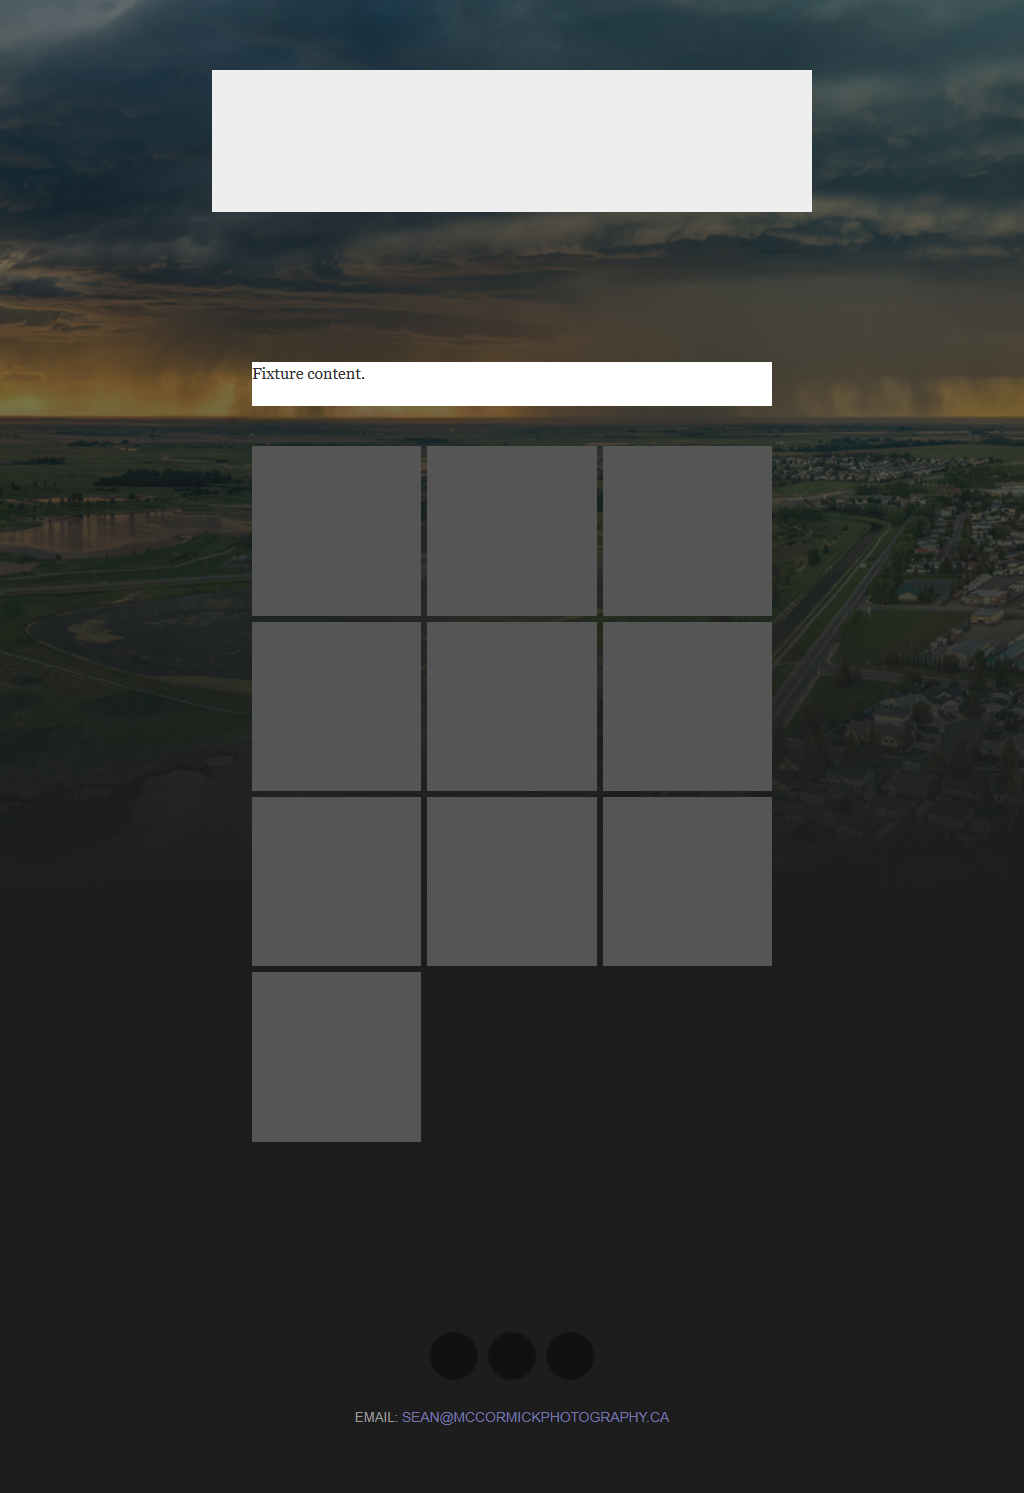
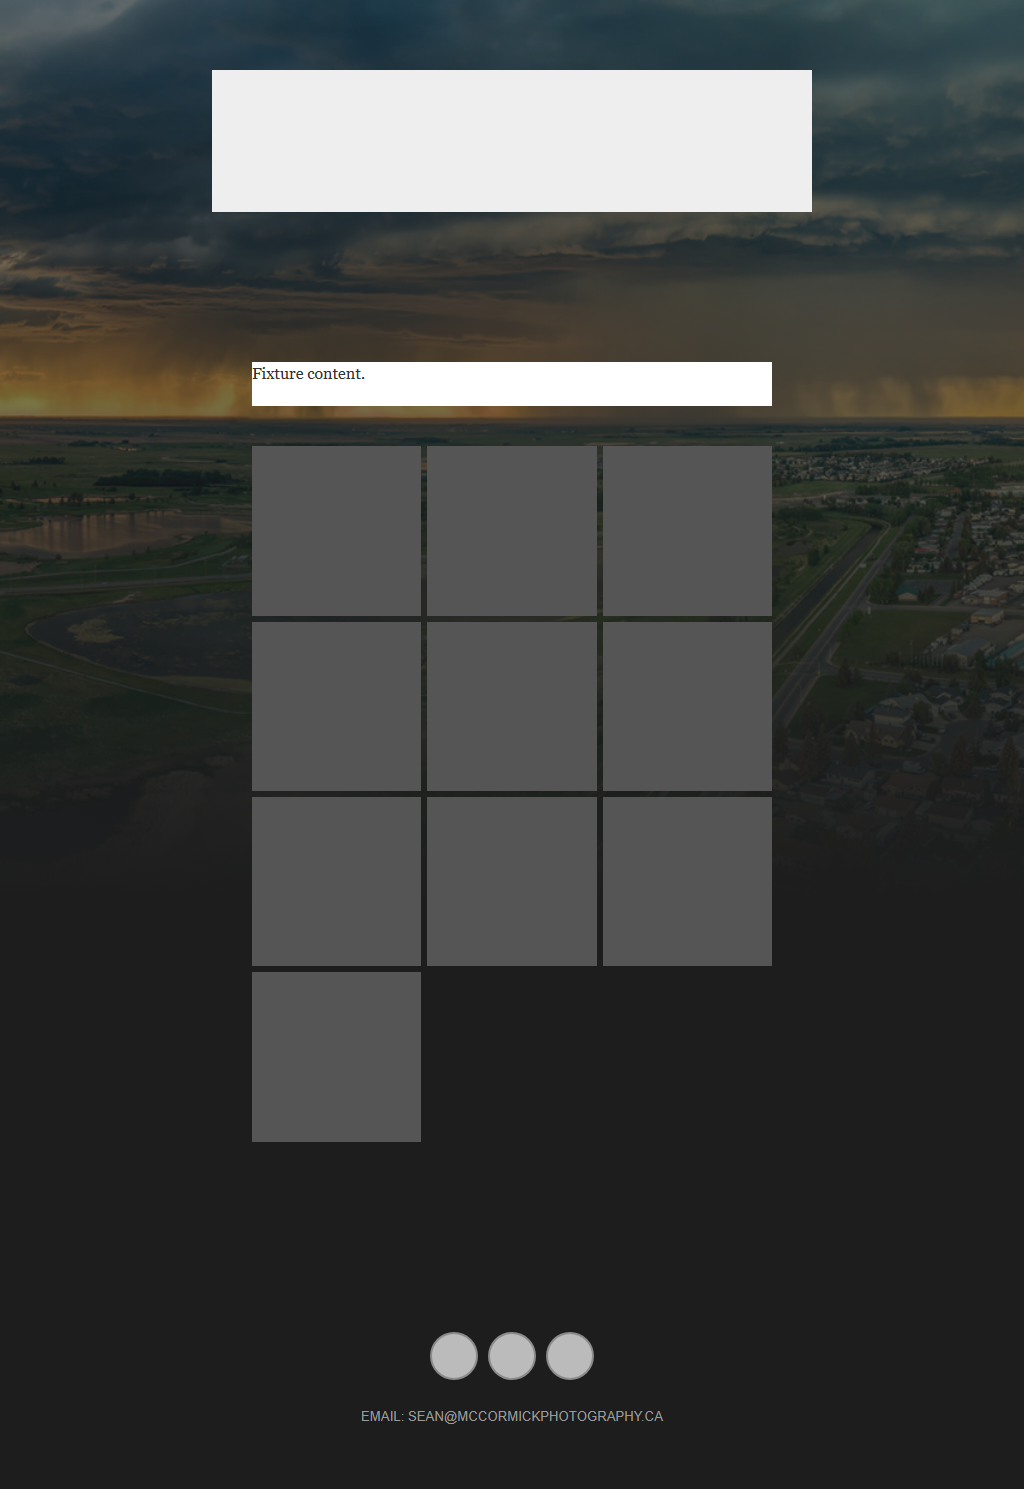
Honor ALFRED Social Dock appearance defaults
Default ALFRED to white circles with dark grey glyphs in both the 36px masthead row and footer while leaving appearance controls owner-editable. Saved owner settings override skin defaults. Browser checks verify the real prepared model, computed colours, target geometry and both placements at 1920, 1440 and 1024.

Changed region(s): [[0.3438, 0.8959, 0.6562, 0.9577], [0.25, 0.2471, 0.3438, 0.278]]

diff --git a/skins/alfred/style.css b/skins/alfred/style.css
@@ -828,6 +828,14 @@ input[type="button"],
     margin: 24px auto 0;
 }
 
+.site-header .dock-link,
+.site-header .dock-link:hover,
+#system-footer .dock-link,
+#system-footer .dock-link:hover {
+    color: var(--dock-icon);
+    text-decoration: none;
+}
+
 .site-header .dock-link {
     width: 36px;
     height: 36px;

diff --git a/core/social-dock.php b/core/social-dock.php
@@ -31,11 +31,11 @@ if (empty($settings['social_dock_enabled']) || $settings['social_dock_enabled'] 
 }
 
 // ── SKIN OVERRIDES ────────────────────────────────────────────────────────
-// A skin may take ownership of the dock's appearance / location / shadow via a
-// "social_dock" block in its manifest.json. Any key present there wins over the
-// admin setting, and smack-social-dock.php shows "(controlled by skin)" for it.
-// Recognised keys: position, color_mode, icon_style, shadow, color_light,
-// color_dark, opacity, inline.
+// A skin may own placement through its "social_dock" manifest block. It may
+// also declare default_* appearance values, but saved owner settings win and
+// remain editable in smack-social-dock.php.
+// Recognised placement key: position. Appearance defaults: default_color_mode,
+// default_icon_style, default_shadow, default_color_light, default_color_dark.
 if (!function_exists('snapsmack_dock_skin_overrides')) {
     function snapsmack_dock_skin_overrides(array $settings): array {
         $skin = basename((string)($settings['active_skin'] ?? ''));
@@ -176,7 +176,7 @@ $_dock_outline = [
     'email'      => '<svg viewBox="0 0 24 24" fill="none" stroke="currentColor" stroke-width="1.8" stroke-linecap="round" stroke-linejoin="round"><rect x="3" y="5" width="18" height="14" rx="2"/><path d="m4 7 8 6 8-6"/></svg>',
     'website'    => '<svg viewBox="0 0 24 24" fill="none" stroke="currentColor" stroke-width="1.8" stroke-linecap="round" stroke-linejoin="round"><circle cx="12" cy="12" r="8.5"/><path d="M3.5 12h17"/><path d="M12 3.5c2.4 2.5 3.7 5.6 3.7 8.5S14.4 18 12 20.5C9.6 18 8.3 14.9 8.3 12S9.6 6 12 3.5z"/></svg>',
 ];
-$_dock_icon_style = (($_dock_ovr['icon_style'] ?? ($settings['social_dock_icon_style'] ?? 'solid')) === 'outline') ? 'outline' : 'solid';
+$_dock_icon_style = (($settings['social_dock_icon_style'] ?? $_dock_ovr['default_icon_style'] ?? 'solid') === 'outline') ? 'outline' : 'solid';
 
 // Pixelfed glyphs (used for THIS site's own fediverse page on image installs;
 // Mastodon glyphs above cover the text install). Solid = filled "P" mark;
@@ -243,20 +243,21 @@ if (empty($_dock_links) && !$_dock_has_download) {
     return;
 }
 
-// Get and validate position (skin override wins)
+// Get and validate position (skin placement wins)
 $_dock_position = $_dock_ovr['position'] ?? ($settings['social_dock_position'] ?? 'bottom-right');
 $_valid_positions = ['top-left', 'top-right', 'bottom-left', 'bottom-right', 'left-top', 'left-bottom', 'right-top', 'right-bottom'];
 if (!in_array($_dock_position, $_valid_positions)) {
     $_dock_position = 'bottom-right';
 }
 
-// Appearance settings (skin overrides win over admin settings)
-$_dock_color_light = $_dock_ovr['color_light'] ?? ($settings['social_dock_color_light'] ?? '#ffffff');
-$_dock_color_dark  = $_dock_ovr['color_dark']  ?? ($settings['social_dock_color_dark'] ?? '#1a1a1a');
-$_dock_color_mode  = (($_dock_ovr['color_mode'] ?? ($settings['social_dock_color_mode'] ?? 'light')) === 'dark') ? 'dark' : 'light';
-$_dock_shadow      = isset($_dock_ovr['shadow'])
-    ? filter_var($_dock_ovr['shadow'], FILTER_VALIDATE_BOOLEAN)
-    : ((string)($settings['social_dock_shadow'] ?? '1') !== '0');
+// Owner appearance settings win; a skin may declare defaults without locking
+// the matching controls. Position remains a skin-owned placement decision.
+$_dock_color_light = $settings['social_dock_color_light'] ?? ($_dock_ovr['default_color_light'] ?? '#ffffff');
+$_dock_color_dark  = $settings['social_dock_color_dark']  ?? ($_dock_ovr['default_color_dark'] ?? '#1a1a1a');
+$_dock_color_mode  = (($settings['social_dock_color_mode'] ?? $_dock_ovr['default_color_mode'] ?? 'light') === 'dark') ? 'dark' : 'light';
+$_dock_shadow      = array_key_exists('social_dock_shadow', $settings)
+    ? ((string)$settings['social_dock_shadow'] !== '0')
+    : filter_var($_dock_ovr['default_shadow'] ?? true, FILTER_VALIDATE_BOOLEAN);
 $_dock_opacity     = max(0, min(100, (int)($_dock_ovr['opacity'] ?? ($settings['social_dock_opacity'] ?? 50))));
 
 // Active colour based on mode

diff --git a/tests/strict-skins-can-place-the-shared-social-dock-regression.php b/tests/strict-skins-can-place-the-shared-social-dock-regression.php
@@ -48,6 +48,7 @@ require_once $root . '/core/trusted-html.php';
 require_once $root . '/core/skin-render-helpers.php';
 require_once $root . '/core/skin-view-contract.php';
 require_once $root . '/core/indieweb.php';
+require_once $root . '/core/skin-view-model.php';
 
 /** The crop_circles view model core builds, with two configured platforms. */
 function sd_model(array $social = []): array {
@@ -107,6 +108,26 @@ sd_check('Email and external Pixelfed are independent dock links',
          && str_contains($emailDock, 'crop-circles.svg#pixelfed'), $failures);
 sd_check('an invalid email cannot become a dock URL',
          snapsmack_social_email_url('not an address') === '', $failures);
+
+$pdo = new PDO('sqlite::memory:');
+$pdo->exec('CREATE TABLE snap_settings (setting_key TEXT PRIMARY KEY, setting_val TEXT)');
+$alfredDefaults = ['social_dock' => [
+    'position' => 'inline', 'default_color_mode' => 'dark',
+    'default_icon_style' => 'solid', 'default_shadow' => false,
+]];
+$defaultModel = snapsmack_prepare_crop_circles($pdo, [
+    'social_dock_enabled' => '1', 'social_dock_bluesky' => 'https://bsky.app/profile/example.test',
+], $alfredDefaults, []);
+sd_check('a skin can default to white circles with dark glyphs',
+         ($defaultModel['appearance']['icon'] ?? '') === '#1a1a1a'
+         && ($defaultModel['appearance']['background'] ?? '') === 'rgba(255,255,255,.7)', $failures);
+$ownerModel = snapsmack_prepare_crop_circles($pdo, [
+    'social_dock_enabled' => '1', 'social_dock_bluesky' => 'https://bsky.app/profile/example.test',
+    'social_dock_color_mode' => 'light', 'social_dock_color_light' => '#fefefe',
+], $alfredDefaults, []);
+sd_check('an owner setting overrides the skin appearance default',
+         ($ownerModel['appearance']['icon'] ?? '') === '#fefefe'
+         && ($ownerModel['appearance']['background'] ?? '') === 'rgba(0,0,0,.7)', $failures);
 
 // A corner position, for a skin that wants the floating dock rather than a row.
 $corner = (string)snap_render_component('social-dock',

diff --git a/tests/alfred-footer-carries-the-shared-social-dock-regression.php b/tests/alfred-footer-carries-the-shared-social-dock-regression.php
@@ -66,6 +66,13 @@ echo "\nSTAGE 2 — THE DOCK'S STYLESHEET REACHES ALFRED, FROM ALFRED'S MANIFEST
 $check('ALFRED declares a social_dock block', is_array($manifest['social_dock'] ?? null));
 $check('  placed inline, in the footer flow',
        ($manifest['social_dock']['position'] ?? '') === 'inline');
+$check('  defaults to white circles with dark glyphs',
+       ($manifest['social_dock']['default_color_mode'] ?? '') === 'dark'
+       && ($manifest['social_dock']['default_icon_style'] ?? '') === 'solid');
+$check('  while appearance remains owner-editable rather than skin-locked',
+       !array_key_exists('color_mode', $manifest['social_dock'])
+       && !array_key_exists('icon_style', $manifest['social_dock'])
+       && !array_key_exists('shadow', $manifest['social_dock']));
 $styles = snapsmack_skin_declared_assets($manifest)['styles'];
 $check('  so the engine stylesheet is registered for ALFRED',
        (bool)array_filter($styles,

diff --git a/core/skin-view-model.php b/core/skin-view-model.php
@@ -153,7 +153,7 @@ function snapsmack_prepare_crop_circles(PDO $pdo, array $settings, array $manife
         }
     }
     $dock = is_array($manifest['social_dock'] ?? null) ? $manifest['social_dock'] : [];
-    $dark = (($dock['color_mode'] ?? $settings['social_dock_color_mode'] ?? 'light') === 'dark');
+    $dark = (($settings['social_dock_color_mode'] ?? $dock['default_color_mode'] ?? 'light') === 'dark');
     $color = (string)($dark
         ? ($dock['color_dark'] ?? $settings['social_dock_color_dark'] ?? '#1a1a1a')
         : ($dock['color_light'] ?? $settings['social_dock_color_light'] ?? '#ffffff'));
